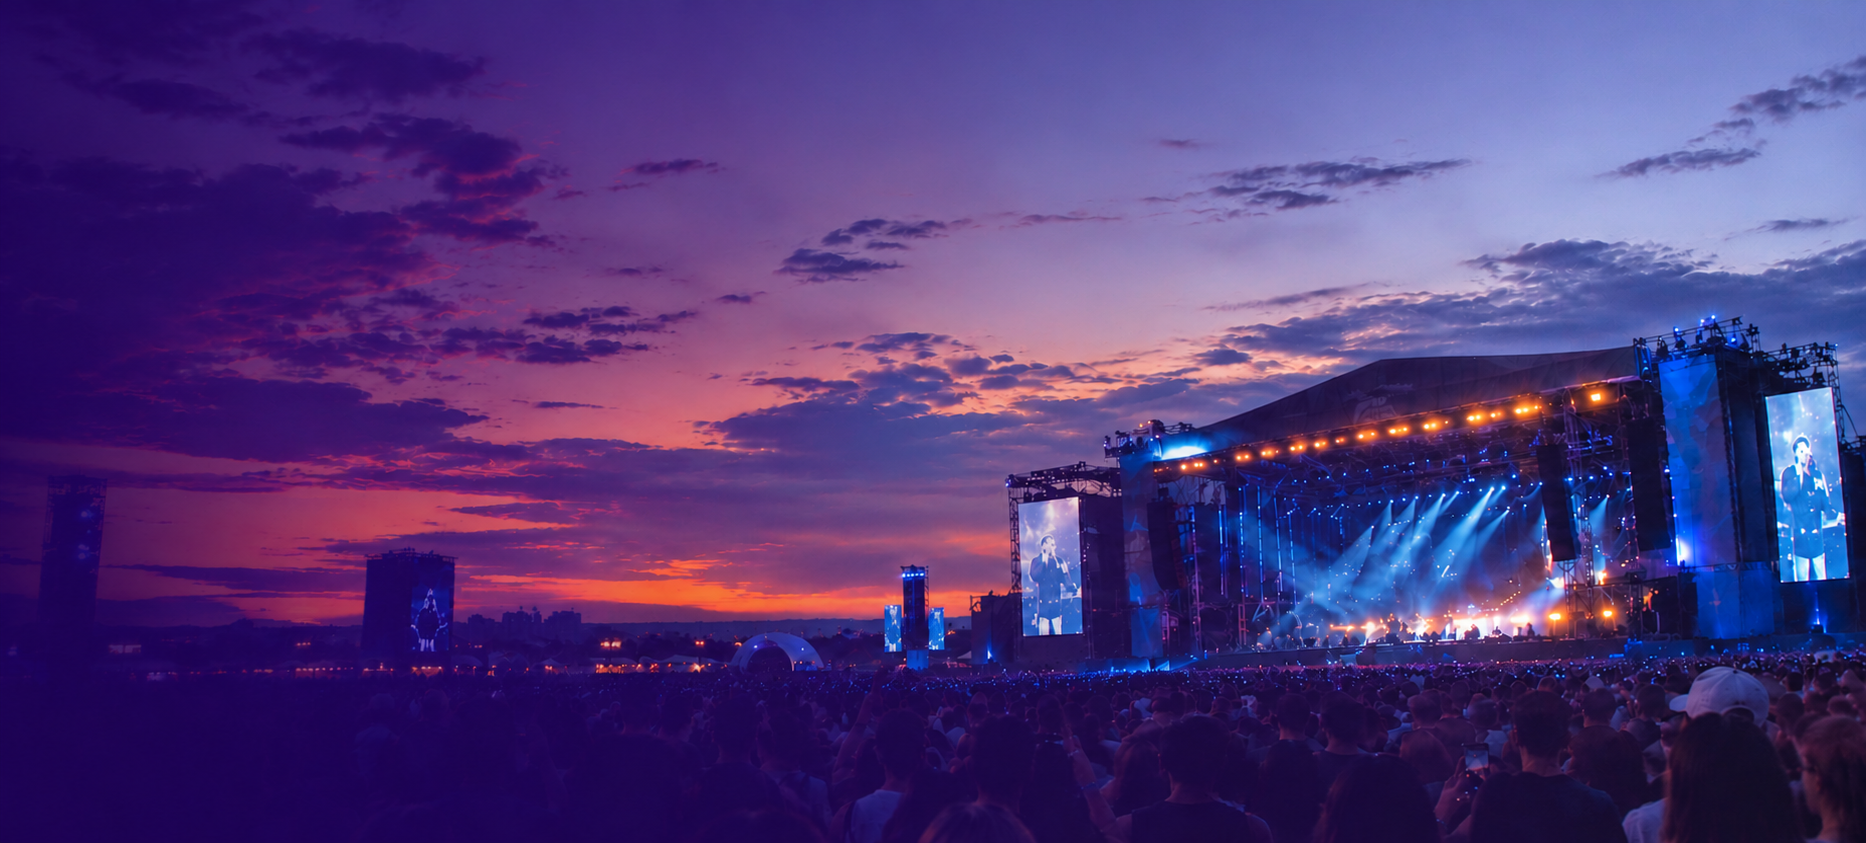
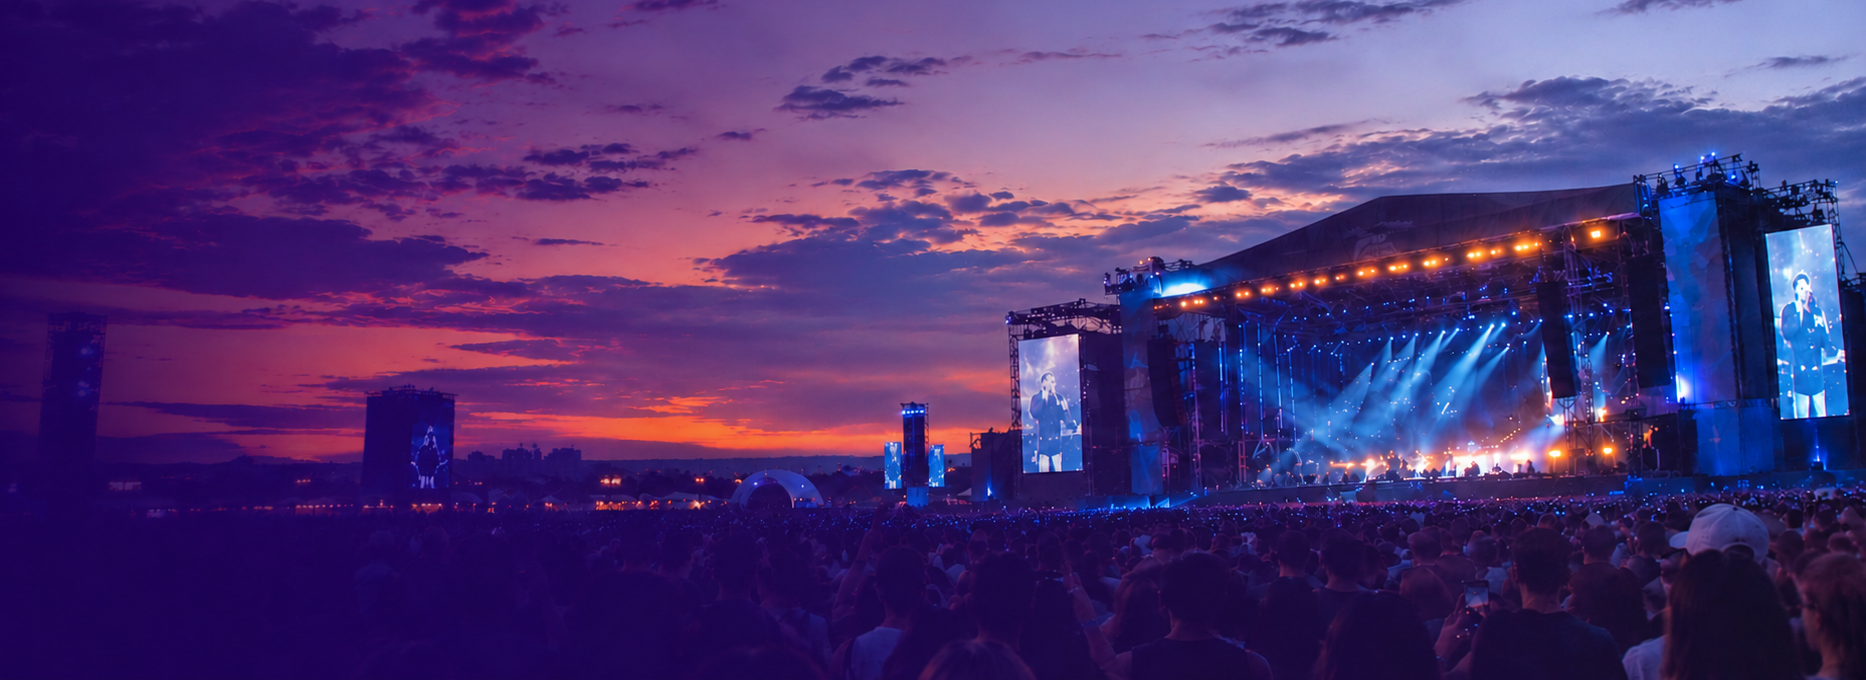
aaaa

diff --git a/frontend/src/app/home.css b/frontend/src/app/home.css
@@ -1,22 +1,19 @@
-
-@import url('https://fonts.googleapis.com/css2?family=Montserrat:ital,wght@0,100..900;1,100..900&display=swap');
-
 .page-container {
-  font-family: 'Montserrat', sans-serif;
   max-width: 1200px;
   margin: 0 auto;
   padding: 40px 20px;
   color: #333;
 }
 
-h1, h2, h3 {
+h1,
+h2,
+h3 {
   font-family: 'Unbounded', sans-serif;
   color: #111;
 }
 
 button {
-  font-family: 'Montserrat', sans-serif;
-    cursor: pointer;
+  cursor: pointer;
 }
 
 .hero-section {
@@ -29,7 +26,7 @@ button {
   top: 0;
   left: 0;
   width: 100%;
-  
+
   min-height: 100px;
 }
 
@@ -37,16 +34,18 @@ button {
   color: #7c3aed;
   font-weight: bold;
   font-size: 0.875rem;
-  font-family: 'Montserrat', sans-serif;
-  font-style: normal;
-
+  letter-spacing: 1.0;
+ 
+  
 }
 
 .hero-title {
   font-size: 3rem;
   margin: 16px 0;
   line-height: 1.2;
- 
+}
+.hero-title span {
+  color: #7c3aed;
 }
 
 .hero-subtitle {
@@ -81,10 +80,12 @@ button {
   padding: 8px;
   border: 1px solid #ddd;
   border-radius: 4px;
-  font-family: 'Montserrat', sans-serif;
+
 }
 
-.btn-pesquisar, .btn-compre, .btn-juntar {
+.btn-pesquisar,
+.btn-compre,
+.btn-juntar {
   background-color: #7c3aed;
   color: #fff;
   border: none;
@@ -94,7 +95,11 @@ button {
 }
 
 
-.featured-event-section, .experiences-section, .categories-section, .faq-section, .final-cta-section {
+.featured-event-section,
+.experiences-section,
+.categories-section,
+.faq-section,
+.final-cta-section {
   margin-bottom: 60px;
 }
 

diff --git a/frontend/src/app/globals.css b/frontend/src/app/globals.css
@@ -1,4 +1,3 @@
-@import url('https://fonts.googleapis.com/css2?family=Montserrat:ital,wght@0,100..900;1,100..900&display=swap');
 @import url('https://fonts.googleapis.com/css2?family=Unbounded:wght@200..900&display=swap');
 
 :root {
@@ -21,10 +20,8 @@ body {
   display: flex;
   flex-direction: column;
   color: var(--foreground);
+  font-family: "Google Sans", sans-serif;
   background: var(--background);
-  font-family: Arial, Helvetica, sans-serif;
-  -webkit-font-smoothing: antialiased;
-  -moz-osx-font-smoothing: grayscale;
 }
 
 * {

diff --git a/frontend/src/app/page.jsx b/frontend/src/app/page.jsx
@@ -11,7 +11,7 @@ export default function Home() {
             <span className="hero-kicker">O SEU PRÓXIMO MOMENTO COMEÇA AQUI</span>
             <h1 className="hero-title">
               Vive mais.<br />
-              Descobre agora.
+              <span>Descobre agora.</span>
             </h1>
             <p className="hero-subtitle">
               Eventos, festivais e experiências que ficam contigo.
